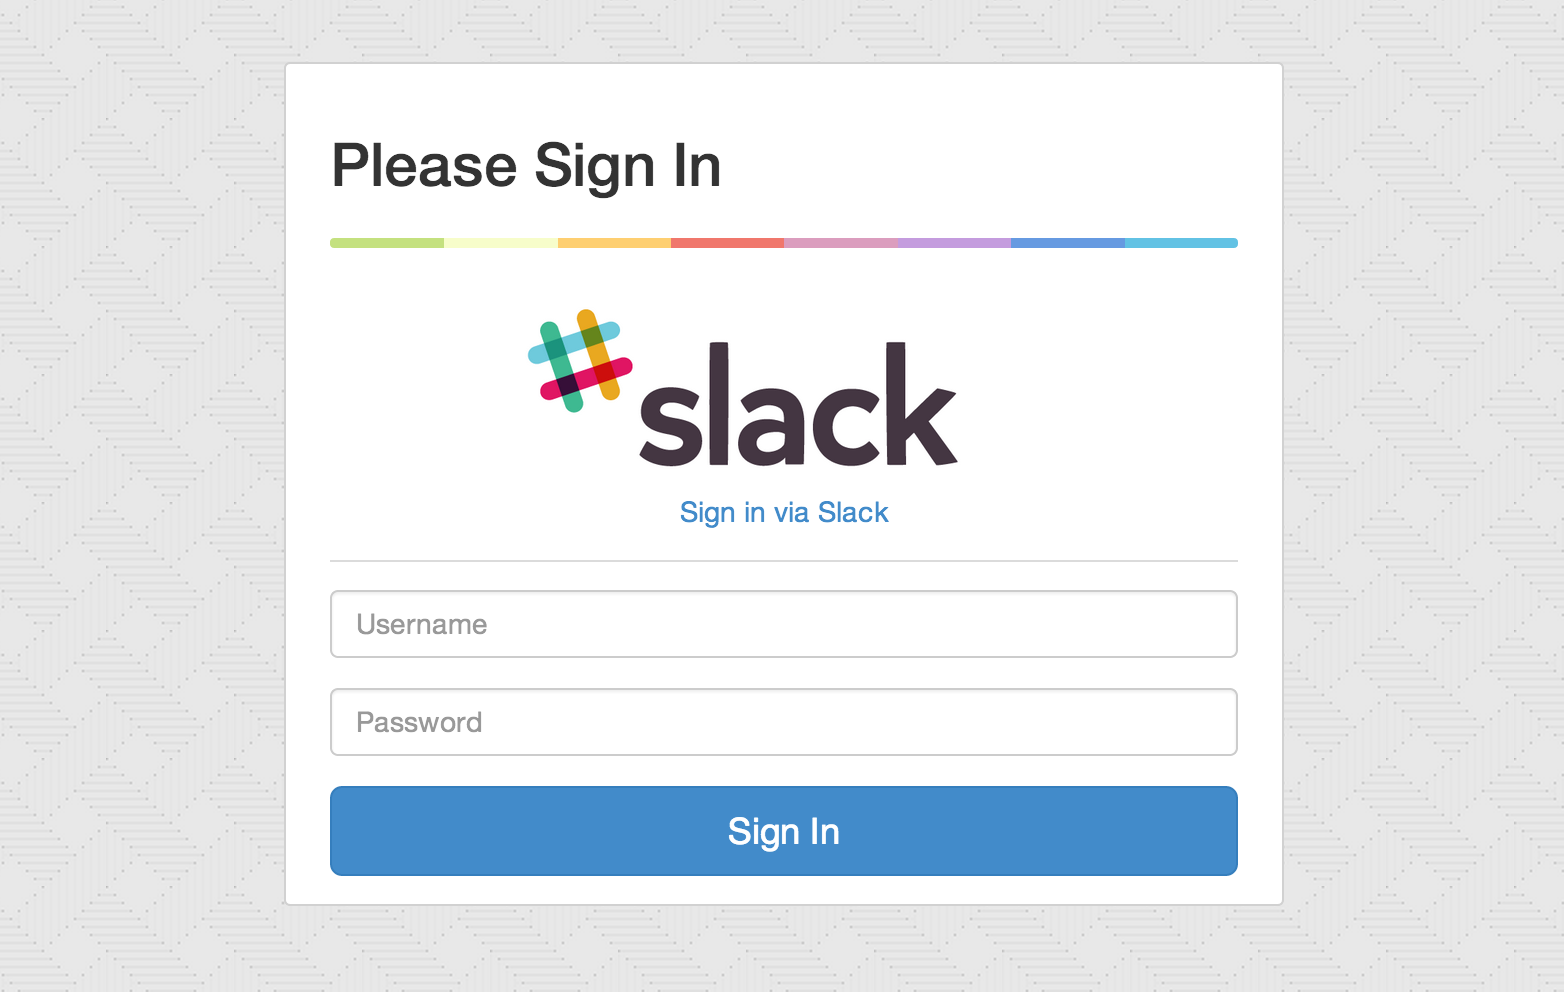
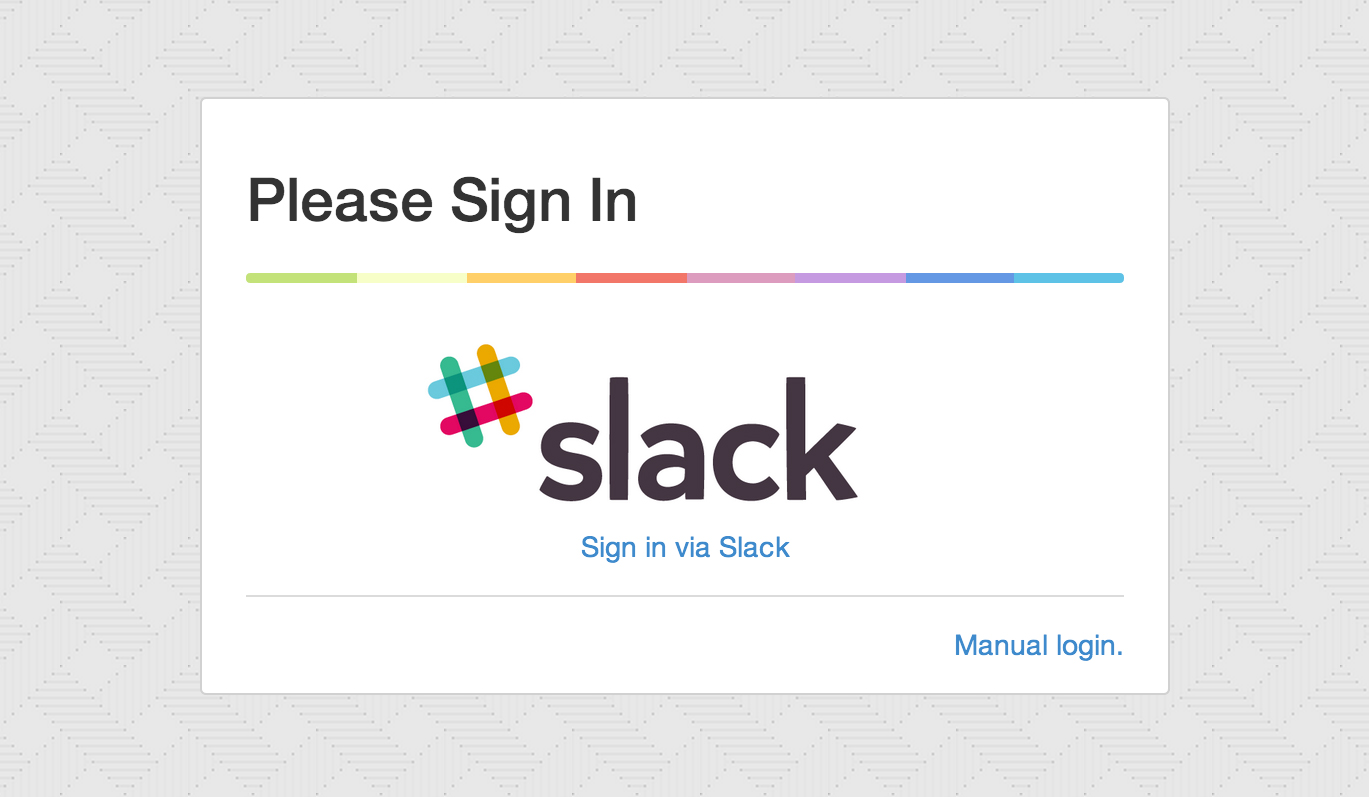
Hide basic auth login by default (might confuse users)

Changed region(s): [[0.1227, 0.0602, 0.859, 0.9335], [0.4295, 0.6625, 0.5829, 0.7227], [0.2148, 0.6023, 0.3068, 0.6625]]

diff --git a/templates/sign_in.html b/templates/sign_in.html
@@ -9,18 +9,24 @@
                 Sign in via Slack
             </a>
             {{ if .HtPasswd }}
-            <form role="form" method="POST" action="{{ .SignInUrl }}">
-                <input type="hidden" name="rd" value="{{ .Redirect }}">
-                <div class="form-group">
-                    <input type="text" class="form-control" name="username" placeholder="Username" required="" autofocus="">
-                </div>
-                <div class="form-group">
-                    <input type="password" class="form-control" name="password" placeholder="Password" required="">
-                </div>
-                <button class="btn btn-lg btn-primary btn-block" type="submit">
-                    Sign In
-                </button>
-            </form>
+            {{ if .BasicRequested }}
+                <form class="form-sep" role="form" method="POST" action="{{ .SignInUrl }}">
+                    <input type="hidden" name="rd" value="{{ .Redirect }}">
+                    <div class="form-group">
+                        <input type="text" class="form-control" name="username" placeholder="Username" required="" autofocus="">
+                    </div>
+                    <div class="form-group">
+                        <input type="password" class="form-control" name="password" placeholder="Password" required="">
+                    </div>
+                    <button class="btn btn-lg btn-primary btn-block" type="submit">
+                        Sign In
+                    </button>
+                </form>
+            {{ else }}
+            <div class="form-sep">
+                <a href="?basic=1" class="pull-right">Manual login.</a>
+            </div>
+            {{ end }}
             {{ end }}
         </div>
     </div>

diff --git a/static/style.css b/static/style.css
@@ -59,10 +59,11 @@ body {
     margin-top: 100px;
 }
 
-.signin > form {
+.form-sep {
     margin-top: 0.5em;
     border-top: 1px solid #DBDBDB;
     padding-top: 1.0em;
+    overflow: hidden;
 }
 
 @media (max-width: 767px) {

diff --git a/oauthserver.go b/oauthserver.go
@@ -208,11 +208,13 @@ func (s *OAuthServer) handleSignIn(rw http.ResponseWriter, req *http.Request) {
 		SignInUrl string
 		Redirect string
 		HtPasswd bool
+		BasicRequested bool
 	}{
 		Title: "Sign in",
 		SignInUrl: signInPath,
 		Redirect: req.URL.RequestURI(),
 		HtPasswd: s.HtpasswdFile != nil,
+		BasicRequested: req.FormValue("basic") == "1",
 	}
 
 	s.renderTemplate(rw, "sign_in", t)
